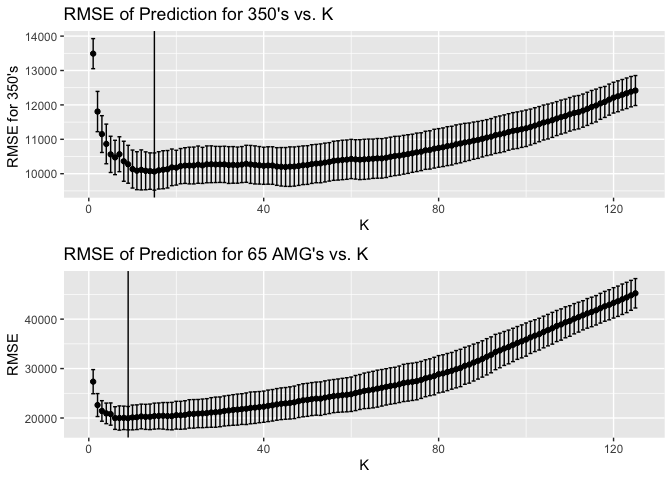
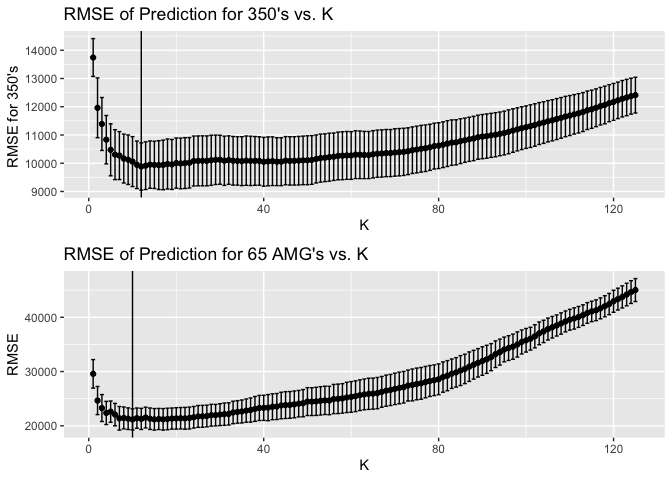
update knitr

diff --git a/Exercise_1.md b/Exercise_1.md
@@ -132,12 +132,12 @@ in competitor’s heights across the entire history of the Olympics.
 Thus, the graphs show that the optimal K for predicting 350’s prices
 with KNN method should be
 
-    ## [1] 15
+    ## [1] 12
 
 and the optimal K for predicting 65 AMG’s price with KNN method should
 be
 
-    ## [1] 9
+    ## [1] 10
 
 given they yield the smallest RMSEs respectively.
 <img src="Exercise_1_files/figure-gfm/fig10-1.png" title="Figure 10: Prediction vs. Testing Set" alt="Figure 10: Prediction vs. Testing Set" style="display: block; margin: auto;" />
